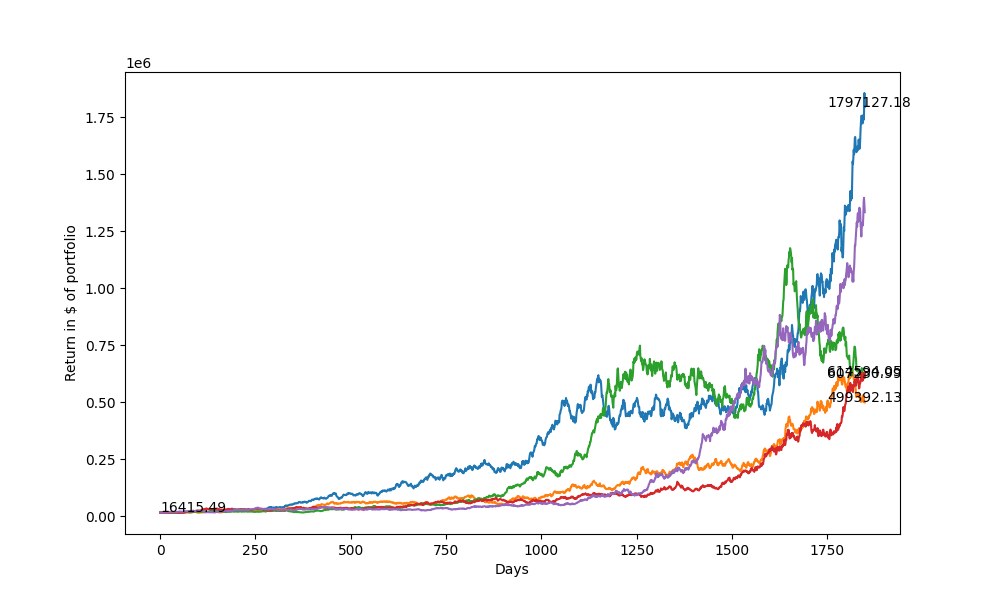
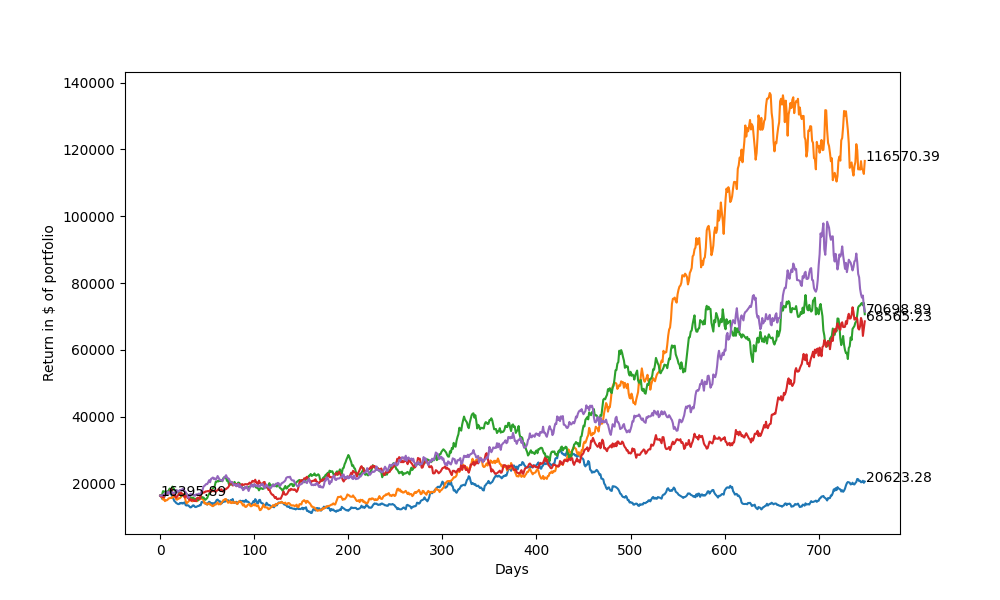
update

diff --git a/server/stock.py b/server/stock.py
@@ -3,6 +3,7 @@ import pandas as pd
 from matplotlib import pyplot as plt
 import numpy as np
 import time
+from yahoofinancials import YahooFinancials
 
 from Stock_Functions import * 
 
@@ -62,6 +63,9 @@ class Stock:
         pf_returns= []
         pf_vol= []
         weig_list = []
+        sharpe_list = []
+        yahoo_financials = YahooFinancials('^TNX')
+        yr_10 = yahoo_financials.get_current_price()/100
         #generate a for loop which gives back 1000 pf weights
         #sum of these random number must be equal to 1(sum of pf assets)
         #w /= sum.(w) is equivalent to w = w / sum.(w)->w1/(w1+w2) + w2/(w1+w2..) + wn/(sum.wn)=1
@@ -69,24 +73,27 @@ class Stock:
             weights_m = np.random.random( num_assets )
             weights_m /= np.sum( weights_m )
             weig_list.append( weights_m )
-            pf_returns.append(np.sum( np.dot(weights_m, appendPfRet) ) )
-            pf_vol.append(np.sqrt(np.dot( weights_m.T, np.dot( covRetLog, weights_m ))))
-
-
+            ritorni = np.sum( np.dot(weights_m, appendPfRet) )
+            volatilita = np.sqrt(np.dot( weights_m.T, np.dot( covRetLog, weights_m )))
+            pf_returns.append( ritorni )
+            pf_vol.append( volatilita )
+            sharpe_list.append( (ritorni - yr_10) / volatilita )
+        
         weig_list = [np.round(num, 4) for num in weig_list]
         pf_returns = np.array(pf_returns)
         pf_vol = np.array(pf_vol)
 
         #create a dataframe containings three features
-        portfolios = pd.DataFrame({'Return': pf_returns, 'Volatility': pf_vol, 'weig_list': weig_list})
+        portfolios = pd.DataFrame({'Return': pf_returns, 'Volatility': pf_vol, 'weig_list': weig_list, 'sharpe': sharpe_list})
         # Find our 3 best porfolios
-
         maxReturnPf = portfolios['Return'].argmax()
         minVolatilityPf = portfolios['Volatility'].argmin()
+        sharpeMax = portfolios['sharpe'].argmax()
         pfpuntoMaxRet = portfolios.iloc[maxReturnPf]
         pfpuntoMinVol  = portfolios.iloc[minVolatilityPf]
+        pfpuntoSharpe = portfolios.iloc[sharpeMax]
         #plot efficient frontier 
-        stockMarkovitz(portfolios, pfpuntoMaxRet, pfpuntoMinVol)
+        stockMarkovitz(portfolios, pfpuntoMaxRet, pfpuntoMinVol, pfpuntoSharpe)
 
         return  pfpuntoMaxRet, pfpuntoMinVol, self.tickers
     

diff --git a/server/MC_Simulation.py b/server/MC_Simulation.py
@@ -39,7 +39,7 @@ def MC_Simulation(mydata):
 
 
     #Number of upcoming days for which we make forecasts
-    t_intervals = 1850
+    t_intervals = 750
     #Number of iterations of series stock price predictions
     iterations = 5
 
@@ -65,10 +65,9 @@ def MC_Simulation(mydata):
     plt.ylabel("Return in $ of portfolio")
     plt.xlabel("Days")
     plt.annotate( str(round(price_list[0][0], 2) ), (0, price_list[0][0]) )
-    plt.annotate( str(round(price_list[-1][0], 2) ), (1750, price_list[-1][0]) )
-    plt.annotate( str(round(price_list[-1][1], 2) ), (1750, price_list[-1][1]) )
-    plt.annotate( str(round(price_list[-1][2], 2) ), (1750, price_list[-1][2]) )
-    plt.annotate( str(round(price_list[-1][3], 2) ), (1750, price_list[-1][3]) )
+    plt.annotate( str(round(price_list[-1][0], 2) ), (750, price_list[-1][0]) )
+    plt.annotate( str(round(price_list[-1][1], 2) ), (750, price_list[-1][1]) )
+    plt.annotate( str(round(price_list[-1][2], 2) ), (750, price_list[-1][2]) )
+    plt.annotate( str(round(price_list[-1][3], 2) ), (750, price_list[-1][3]) )
     plt.savefig('../img/mc_sim.png')
     plt.close('all')
-

diff --git a/server/keyboard.py b/server/keyboard.py
@@ -22,7 +22,8 @@ class Keyboard:
         btn1 = KeyboardButton(text = 'Tracking')
         btn2 = KeyboardButton(text = 'Analysis')
         btn3 = KeyboardButton(text = 'Forecast')
-        keyboard = [[btn1, btn2, btn3]]
+        btn4 = KeyboardButton(text = 'Help')
+        keyboard = [[btn1, btn2, btn3, btn4]]
         self.send_keyboard(bot, keyboard, chat_id, '<strong>Menu</strong>')
 
     def analysisKeyboard(self, bot, chat_id):
@@ -76,8 +77,10 @@ class Keyboard:
         self.send_message(bot, chat_id, message)
         
     def sendCAPM(self, bot, chat_id):
+        pfpuntoMaxRet, pfpuntoMinVol, tickers = stock.markovitz()
+        weights = pfpuntoMinVol.get('weig_list')
         mydata = stock.getMydata()
-        weights = stock.getWeights()
+        #weights = stock.getWeights()
         alpha, beta, sharpe = CAPM(mydata, stock, weights)
         self.sendImage(bot, chat_id, 'capm.png')
         message = ('Your portfolio excess return vaires by (beta) ' + str( round(beta, 2) )  + \

diff --git a/server/Stock_Functions.py b/server/Stock_Functions.py
@@ -59,11 +59,11 @@ def stockRecap(mydata, tickers):
     plt.savefig('../img/stock.png')
     plt.close('all')
 
-def stockMarkovitz(portfolios, pfpuntoMaxRet, pfpuntoMinVol):
+def stockMarkovitz(portfolios, pfpuntoMaxRet, pfpuntoMinVol, sharpeMax):
     portfolios.plot( x = 'Volatility', y = 'Return', kind = 'scatter', figsize = (10,6) )
     plt.scatter( x = pfpuntoMaxRet['Volatility'], y = pfpuntoMaxRet['Return'], c = 'r')
+    plt.scatter( x = sharpeMax['Volatility'], y = sharpeMax['Return'], c = 'y')
     plt.scatter( x = pfpuntoMinVol['Volatility'], y = pfpuntoMinVol['Return'], c = 'r')
-    #plt.scatter( x = pfpuntoAvgRet['Volatility'], y = pfpuntoAvgRet['Return'], c = 'r')
     plt.savefig('../img/frontier.png')
     plt.close('all')
 

diff --git a/server/main.py b/server/main.py
@@ -34,7 +34,7 @@ def main():
                 if handler.getMessage() == '/start':
                     key.send_message(bot, handler.getChatId(), welcome)
                     key.firstKeyboard(bot, handler.getChatId())
-                elif handler.getMessage() == '/help':
+                elif handler.getMessage() == 'Help':
                     key.send_message(bot, handler.getChatId(), helper)
                 elif handler.getMessage() == 'Back':
                     key.firstKeyboard(bot, handler.getChatId())  
